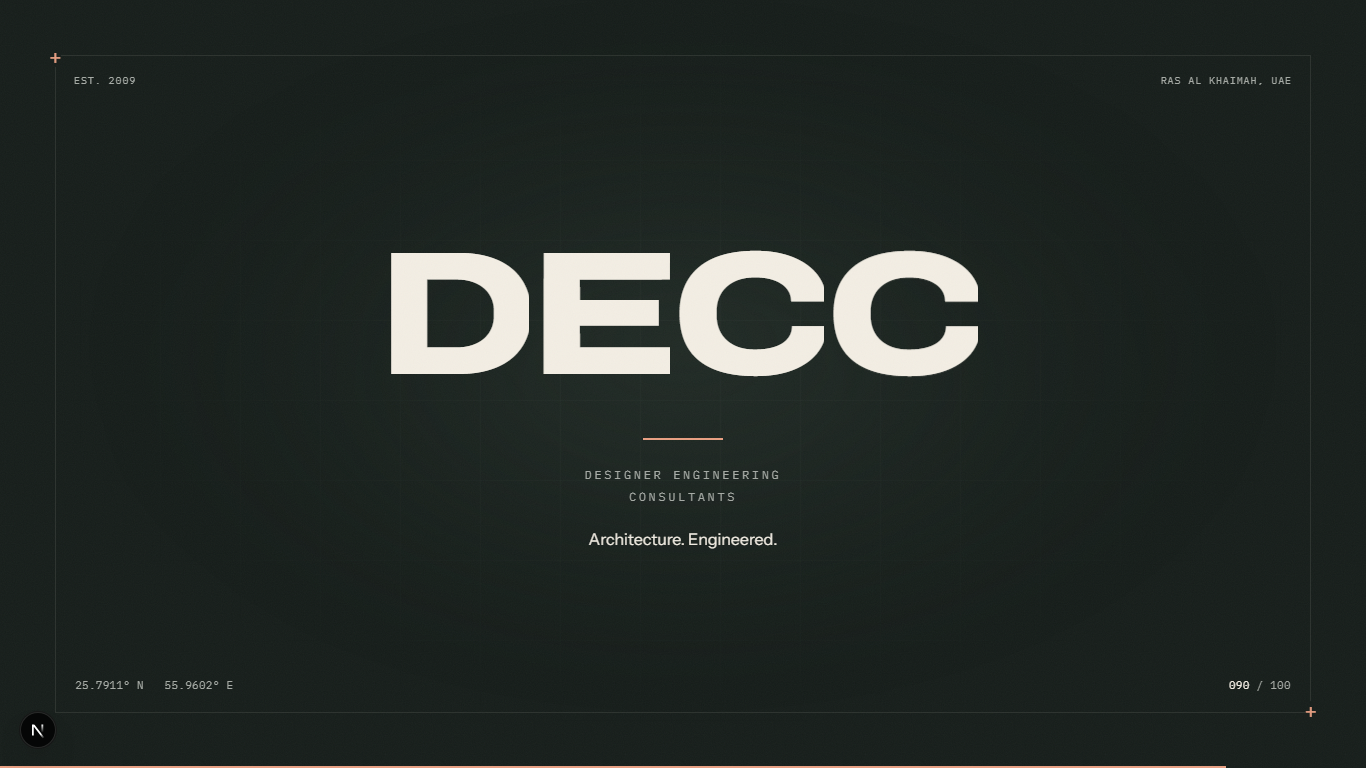
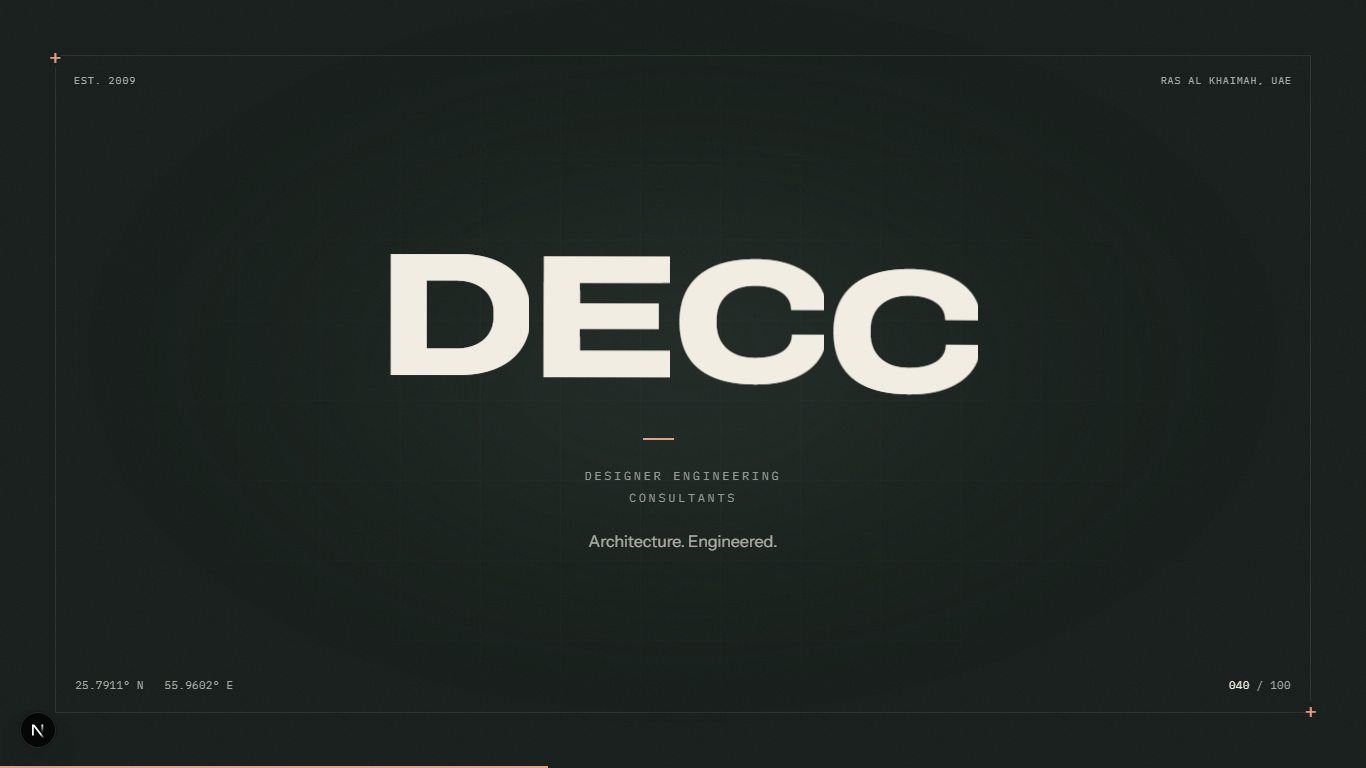
Intro Correction-1

diff --git a/components/motion/Preloader.tsx b/components/motion/Preloader.tsx
@@ -26,6 +26,7 @@ export function Preloader({ label }: { label: string }) {
     const pct = el.querySelector<HTMLElement>("[data-pct]")!;
     const progress = { value: 0 };
     const tl = gsap.timeline({
+      paused: true,
       onComplete: () => {
         html.style.overflow = previousOverflow;
         html.classList.remove("preload");
@@ -36,7 +37,7 @@ export function Preloader({ label }: { label: string }) {
     });
     tl.fromTo(el.querySelector("[data-grid]"), { opacity: 0, scale: 1.04 }, { opacity: 1, scale: 1, duration: 1.6 }, 0)
       .fromTo(el.querySelectorAll("[data-letter]"), { yPercent: 110, rotate: 5 }, { yPercent: 0, rotate: 0, duration: 1, stagger: 0.09, ease: "power4.out" }, 0.12)
-      .fromTo(el.querySelector("[data-rule]"), { scaleX: 0 }, { scaleX: 1, duration: 1.1, ease: "power3.inOut" }, 0.25)
+      .fromTo(el.querySelector("[data-intro-rule]"), { scaleX: 0 }, { scaleX: 1, duration: 1.1, ease: "power3.inOut" }, 0.25)
       .fromTo(el.querySelectorAll("[data-detail]"), { opacity: 0, y: 8 }, { opacity: 1, y: 0, duration: 0.65, stagger: 0.08 }, 0.55)
       .to(progress, {
         value: 100, duration: 1.65, ease: "power2.inOut",
@@ -47,7 +48,36 @@ export function Preloader({ label }: { label: string }) {
       .to(el.querySelectorAll("[data-furniture]"), { opacity: 0, duration: 0.3 }, 1.8)
       .to(el, { clipPath: "inset(0 0 100% 0)", duration: 0.85, ease: "power4.inOut" }, 1.95);
 
+    // The site's smooth-scroll ticker deliberately disables GSAP lag smoothing.
+    // Give this intro its own frame clock so hydration/3D startup stalls cannot
+    // consume the whole sequence before the browser can paint it.
+    let frame = 0;
+    let elapsed = 0;
+    let previous: number | null = null;
+    let cancelled = false;
+    let fontTimeout: ReturnType<typeof setTimeout>;
+    const tick = (now: number) => {
+      if (cancelled) return;
+      if (previous !== null && document.visibilityState === "visible") {
+        elapsed += Math.min(now - previous, 50) / 1000;
+      }
+      previous = now;
+      tl.totalTime(Math.min(elapsed, tl.duration()));
+      if (elapsed < tl.duration()) frame = requestAnimationFrame(tick);
+    };
+    // Avoid revealing the wordmark only after its font has finally downloaded.
+    void Promise.race([
+      document.fonts.ready,
+      new Promise<void>(resolve => { fontTimeout = setTimeout(resolve, 1200); }),
+    ]).then(() => {
+      clearTimeout(fontTimeout);
+      if (!cancelled) frame = requestAnimationFrame(tick);
+    });
+
     return () => {
+      cancelled = true;
+      cancelAnimationFrame(frame);
+      clearTimeout(fontTimeout);
       tl.kill();
       html.style.overflow = previousOverflow;
       getLenis()?.start();
@@ -66,7 +96,7 @@ export function Preloader({ label }: { label: string }) {
         <div className="preloader-word" dir="ltr">
           {Array.from("DECC").map((letter, i) => <span className="preloader-letter-mask" key={i}><span data-letter>{letter}</span></span>)}
         </div>
-        <div className="preloader-rule" data-rule />
+        <div className="preloader-rule" data-intro-rule />
         <p className="preloader-name" data-detail>DESIGNER ENGINEERING<br />CONSULTANTS</p>
         <p className="preloader-signature" data-detail>Architecture. Engineered.</p>
       </div>
